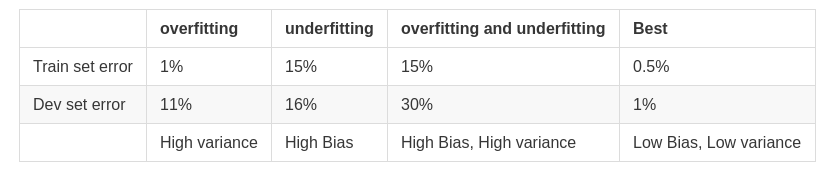
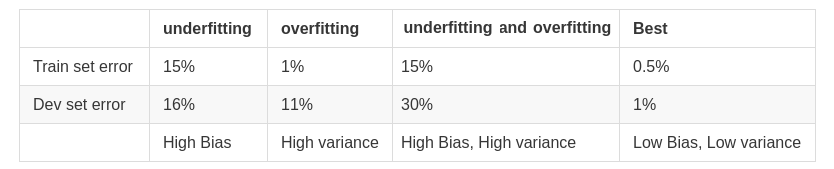
update

diff --git a/2 improving-deep-neural-networks[[hyperparameter-tuning]-[regularization]-[optimization]]/Readme.md b/2 improving-deep-neural-networks[[hyperparameter-tuning]-[regularization]-[optimization]]/Readme.md
@@ -51,84 +51,74 @@
 ![](Images/01.png)
 
 - Your data will be split into three parts:
-  - Training set. (Has to be the largest set)
+  - Training set.
   - Hold-out cross validation set / Development or dev set.
   - Testing set.
 - You will try to build a model upon training set then try to optimize hyperparameters on dev set as much as possible. Then after your model is ready you try and evaluate the testing set.
 - so the trend on the ratio of splitting the models:
-  - If size of the  dataset is 100 to 1000000  ==> 60/20/20 or 70/30
-  - If size of the  dataset is 1000000  to INF  ==> 98/1/1 or  99.5/0.25/0.25
-- The trend now gives the training data the biggest sets.
+  - If size of the dataset is 100 to 1000000 ==> 60/20/20 or 70/30
+  - If size of the dataset is 1000000 to INF ==> 98/1/1 or 99.5/0.25/0.25
 
 ![](Images/02.png)
 
 - Make sure the dev and test set are coming from the same distribution.
   - For example if cat training pictures is from the web and the dev/test pictures are from users cell phone they will mismatch. It is better to make sure that dev and test set are from the same distribution.
-- The dev set rule is to try them on some of the good models you've created.
 - Its OK to only have a dev set without a testing set. But a lot of people in this case call the dev set as the test set. A better terminology is to call it a dev set as its used in the development.
 
 ### Bias vs Variance
 
-- Bias / Variance techniques are Easy to learn, but difficult to master.
-- So here the explanation of Bias / Variance:
-  - If your model is underfitting (logistic regression of non linear data) it has a "high bias"
-  - If your model is overfitting then it has a "high variance"
-  - Your model will be alright if you balance the Bias / Variance
-
 ![](Images/03.png)
 
-- Another idea to get the bias / variance:
+- If your model is underfitting (linear regression of non linear data) it has a "high bias"
+- If your model is overfitting then it has a "high variance"
+- Your model will be alright if you balance the Bias / Variance
 
 ![](Images/04.png)
 
-- High variance (overfitting) for example:
+- High Bias (underfitting):
+  - Training error: 15%
+  - Dev error: 16%
+- High variance (overfitting):
   - Training error: 1%
   - Dev error: 11%
-- high Bias (underfitting) for example:
-  - Training error: 15%
-  - Dev error: 14%
-- high Bias (underfitting) && High variance (overfitting) for example:
+- high Bias (underfitting) && High variance (overfitting):
   - Training error: 15%
   - Test error: 30%
 - Best:
   - Training error: 0.5%
   - Test error: 1%
-- To use human error as baseline. Assumptions came from that human has 0% error.
 
 ### Basic Recipe for Machine Learning
 
 - If your algorithm has a high bias:
   - Try to make your NN bigger (size of hidden units, number of layers)
-  - Try a different model that is suitable for your data.
+  - Try a different model that is suitable for your data (image recognition - CNN, speech recognition - RNN).
+  - Different (advanced) optimization algorithms (Momentum, RMSprop, Adam).
   - Try to run it longer.
-  - Different (advanced) optimization algorithms.
 - If your algorithm has a high variance:
   - More data.
-  - Try regularization.
-  - Try a different model that is suitable for your data.
-- You should try the previous two points until you have a low bias and low variance.
-- In the older days before deep learning, there was a "Bias/variance tradeoff". But because now you have more options/tools for solving the bias and variance problem its really helpful to use deep learning.
+  - Try regularization (L1 regularization, L2 regularization, Dropout).
+  - Try a different model that is suitable for your data (image recognition - CNN, speech recognition - RNN).
+- You should try the previous points until you have a low bias and low variance.
+- In the older days before deep learning, there was a Bias/Variance Tradeoff. But now you have more options/tools for solving the bias and variance problem its really helpful to use deep learning.
 - Training a bigger neural network never hurts.
 
 ### Regularization
 
-Add regularization to NN will help it reduce variance (overfitting)
+L1 vector / matrix regularization:
 
-**Matrix Norm and Vector Norm**
+![](Images/10.png)
 
-- L1 matrix / vector norm:
-  - `||W|| = Sum(|W[i,j]|)  # sum of absolute values of all W[i,j], if W is a Matrix`
-  - `||w|| = Sum(|w[i]|)    # sum of absolute values of all w[i], if w is a vector`
-- L2 matrix / vector norm:
-  - `||W||^2 = Sum(|W[i,j]|^2)	        # sum of all W[i,j] squared, if W is a Matrix`
-  - `||w||^2 = Sum(|w[i]|^2) = w.T * w  # sum of all w[i] squared, if w is a vector`
+L2 vector / matrix regularization:
+
+![](Images/11.png)
 
 **Regularization for logistic regression**
 
 - Regularization for logistic regression:
-  - The normal cost function that we want to minimize is: `J(w,b) = (1/m) * Sum(L(y(i),y'(i)))`
-  - The L2 regularization version: `J(w,b) = (1/m) * Sum(L(y(i),y'(i))) + (lambda/2m) * ||w||^2`
-  - The L1 regularization version: `J(w,b) = (1/m) * Sum(L(y(i),y'(i))) + (lambda/2m) * ||w||`
+  - The normal cost function that we want to minimize is: `J(w,b) = (1/m) * Sum(Loss(y(i),y'(i)))`
+  - The L1 regularization version: `J(w,b) = (1/m) * Sum(Loss(y(i),y'(i))) + (lambda/2m) * L1`
+  - The L2 regularization version: `J(w,b) = (1/m) * Sum(Loss(y(i),y'(i))) + (lambda/2m) * L2`
   - The L1 regularization version makes a lot of w values become zeros, which makes the model size smaller.
   - The L2 regularization is being used much more often.
   - `lambda` here is the **regularization parameter** (hyperparameter)
@@ -154,8 +144,6 @@ Add regularization to NN will help it reduce variance (overfitting)
 - The new term `(1 - (learning_rate*lambda)/m) * W[l]` causes the **weight to decay** in proportion to its size.
 
 ### Why regularization reduces overfitting?
-
-Here are some intuitions:
 
 **neural network architecture**
 
